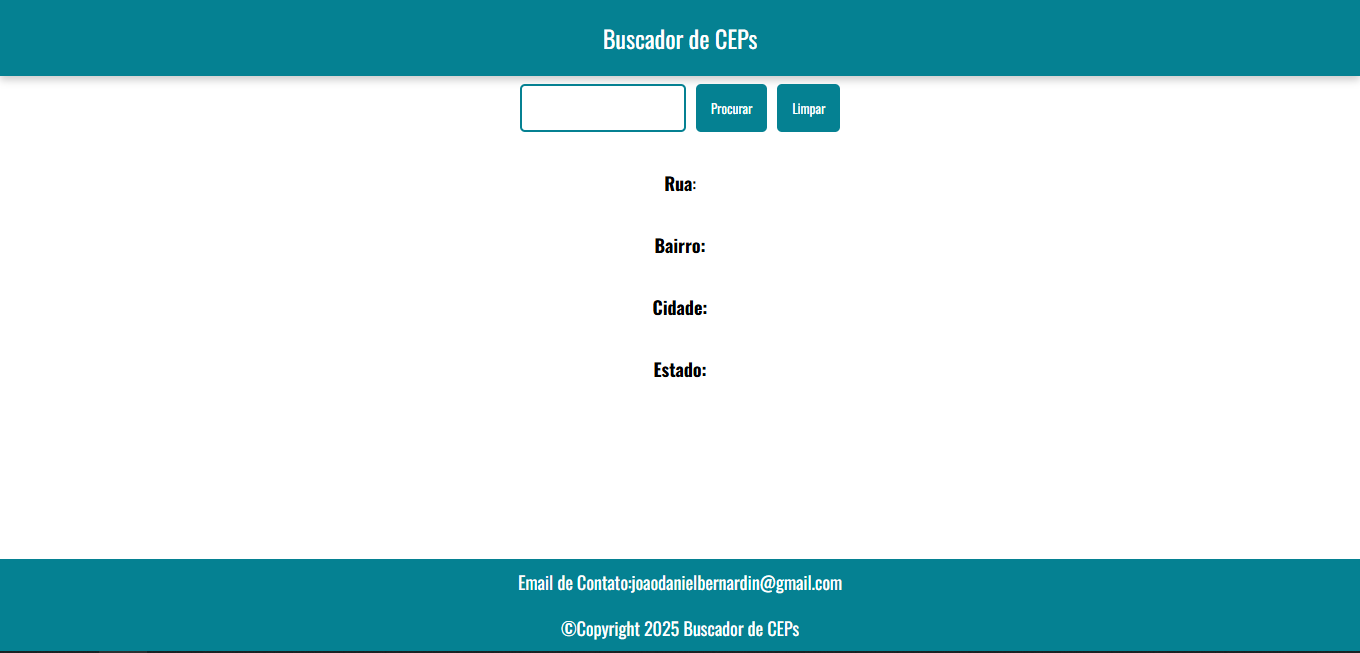
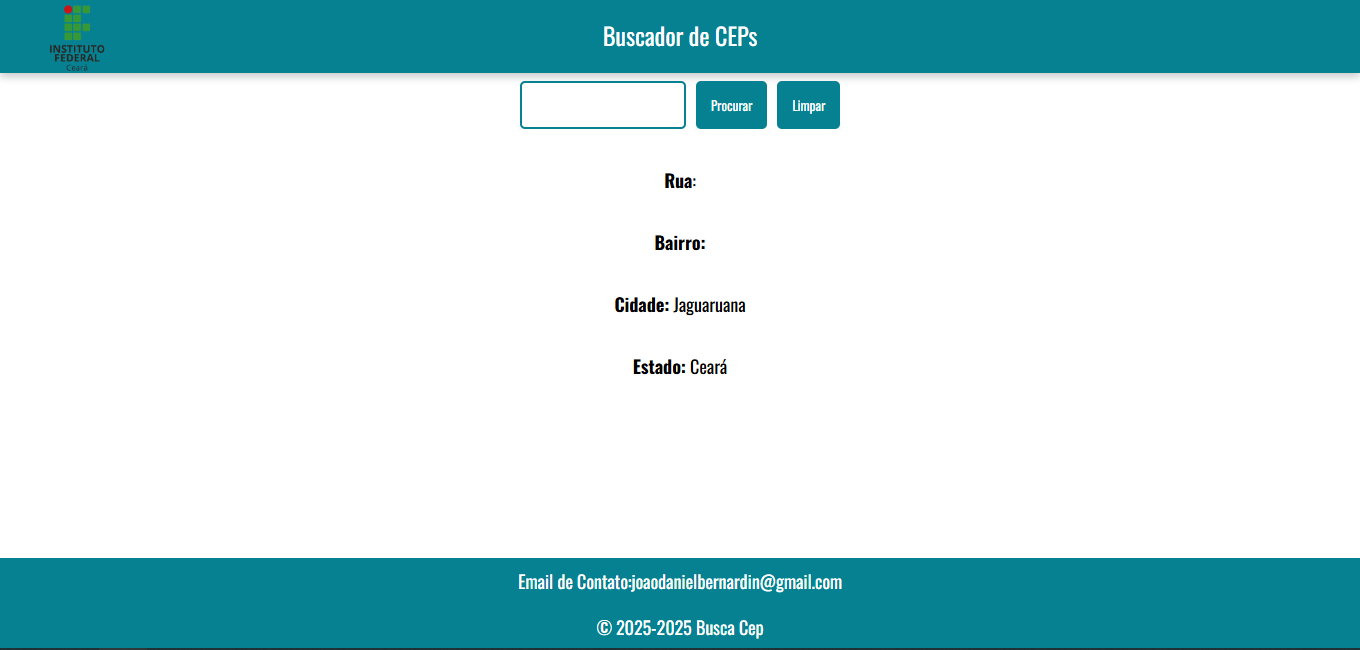
Add files via upload

diff --git a/index.html b/index.html
@@ -21,9 +21,11 @@
       <p><b>Cidade:</b> <span id="cidade"></span></p>
       <p><b>Estado:</b> <span id="estado"></span></p>
     </div>
-
+    <div id="cat">
+      <img src="Logo Ifce.png" alt="">
+    </div>
     <footer class="rodape">Email de Contato:joaodanielbernardin@gmail.com</footer>
-    <footer>©Copyright 2025 Buscador de CEPs</footer>
+    <footer>© 2025-2025 Busca Cep</footer>
     <script src="script.js"></script>
   </body>
 </html>

diff --git a/style.css b/style.css
@@ -70,9 +70,24 @@ footer {
 .contact-info {
     margin-bottom: 10px;
 }
+.cat{
+    width: 500px;
+    height: 500px;
+}
+img{
+  max-width: 100px;
+  position: absolute;
+  top: 1%;
+  left: 2%; 
+}
 
 @media screen and (max-width:768px){
 .info{
     font-size: x-large;
 }
+@media screen and (max-width: 600px) {
+    .my-image {
+      max-width: 50%;
+    }
+  }
 }
